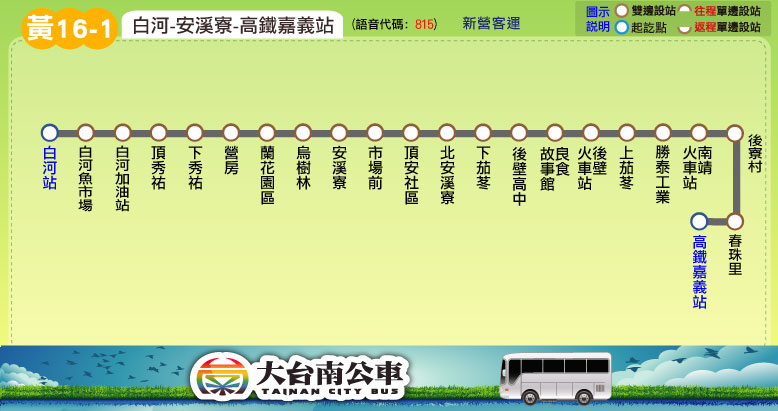
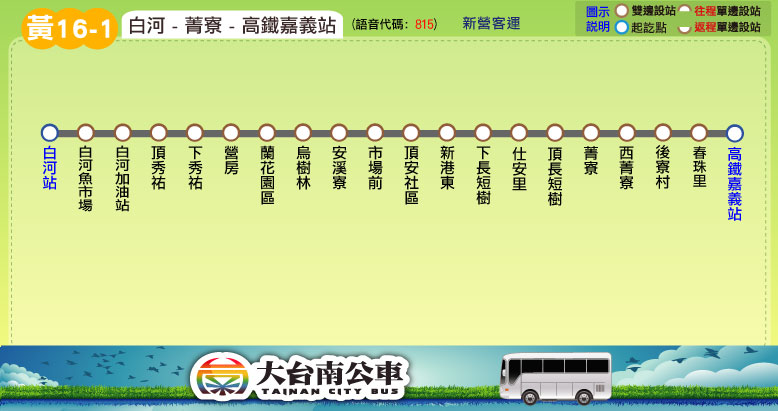
更新路線圖及時刻表：黃16-1(與俗女養成記接駁車整合)；移除路線：俗女養成記接駁車

Changed region(s): [[0.5553, 0.292, 0.9871, 0.7591], [0.1542, 0.0292, 0.4319, 0.0876]]

diff --git a/index.html b/index.html
@@ -17,7 +17,7 @@ html, body {
 }
 </style>
 <script type="text/javascript">
-route_arr = ["0左/0右","1","2","3","5","6","7","9","10","11","14","15","18","19","20","21","33 (關子嶺故宮南院線)","61 (西濱快線)","70 (中華環線)","77","77-1","77-2","88 (府城巡迴線)","99 (安平台江線)","166","綠幹線 (green)","綠1 (g1)","綠2 (g2)","綠3 (g3)","綠4 (g4)","綠5 (g5)","綠6 (g6)","綠7 (g7)","綠10 (g10)","綠11 (g11)","綠12 (g12)","綠13 (g13)","綠14 (g14)","綠15 (g15)","綠16 (g16)","綠17 (g17)","綠20 (g20)","綠20-1 (g20-1)","綠21 (g21)","綠22 (g22)","綠23 (g23)","綠24 (g24)","綠25 (g25)","綠26 (g26)","綠27 (g27)","藍幹線 (blue)","藍1 (b1)","藍2 (b2)","藍3 (b3)","藍10 (b10)","藍11 (b11)","藍12 (b12)","藍13 (b13)","藍20 (b20)","藍21 (b21)","藍22 (b22)","藍23 (b23)","藍24 (b24)","藍25 (b25)","紅幹線 (red)","紅1 (r1)","紅2 (r2)","紅3 (r3)","紅3-1 (r3-1)","紅4 (r4)","紅10 (r10)","紅11 (r11)","紅12 (r12)","紅13 (r13)","紅14 (r14)","橘幹線 (orange)","橘1 (o1)","橘2 (o2)","橘3 (o3)","橘4 (o4)","橘4-1 (o4-1)","橘5 (o5)","橘9 (o9)","橘10 (o10)","橘10-1 (o10-1)","橘11 (o11)","橘11-1 (o11-1)","橘12 (o12)","橘20 (o20)","棕幹線 (brown)","棕1 (br1)","棕2 (br2)","棕3 (br3)","棕3-1 (br3-1)","棕10 (br10)","棕11 (br11)","黃幹線 (yellow)","黃1 (y1)","黃2 (y2)","黃3 (y3)","黃4 (y4)","黃5 (y5)","黃6 (y6)","黃6-1 (y6-1)","黃7 (y7)","黃9 (y9)","黃10 (y10)","黃10-1 (y10-1)","黃11 (y11)","黃11-1 (y11-1)","黃11-2 (y11-2)","黃12 (y12)","黃12-1 (y12-1)","黃12-2 (y12-2)","黃13 (y13)","黃14 (y14)","黃14-1 (y14-1)","黃15 (y15)","黃16 (y16)","黃16-1 (y16-1)","黃20 (y20)","高鐵快捷H31(市府線)","高鐵快捷H62(奇美線)","239","8035","8041C","8042 (沙旗美月世界快線)","8046A","8046B (高南雙城快線)","8050","7207","7208","7210","7214","7229","7407","7408","7410","南科紅線(北環東線)","南科橘線(北環西線)","南科藍線(南環線)","南科綠線(高鐵線)","南科善化線","南科假日線","雙層巴士西環線","俗女養成記接駁車"];
+route_arr = ["0左/0右","1","2","3","5","6","7","9","10","11","14","15","18","19","20","21","33 (關子嶺故宮南院線)","61 (西濱快線)","70 (中華環線)","77","77-1","77-2","88 (府城巡迴線)","99 (安平台江線)","166","綠幹線 (green)","綠1 (g1)","綠2 (g2)","綠3 (g3)","綠4 (g4)","綠5 (g5)","綠6 (g6)","綠7 (g7)","綠10 (g10)","綠11 (g11)","綠12 (g12)","綠13 (g13)","綠14 (g14)","綠15 (g15)","綠16 (g16)","綠17 (g17)","綠20 (g20)","綠20-1 (g20-1)","綠21 (g21)","綠22 (g22)","綠23 (g23)","綠24 (g24)","綠25 (g25)","綠26 (g26)","綠27 (g27)","藍幹線 (blue)","藍1 (b1)","藍2 (b2)","藍3 (b3)","藍10 (b10)","藍11 (b11)","藍12 (b12)","藍13 (b13)","藍20 (b20)","藍21 (b21)","藍22 (b22)","藍23 (b23)","藍24 (b24)","藍25 (b25)","紅幹線 (red)","紅1 (r1)","紅2 (r2)","紅3 (r3)","紅3-1 (r3-1)","紅4 (r4)","紅10 (r10)","紅11 (r11)","紅12 (r12)","紅13 (r13)","紅14 (r14)","橘幹線 (orange)","橘1 (o1)","橘2 (o2)","橘3 (o3)","橘4 (o4)","橘4-1 (o4-1)","橘5 (o5)","橘9 (o9)","橘10 (o10)","橘10-1 (o10-1)","橘11 (o11)","橘11-1 (o11-1)","橘12 (o12)","橘20 (o20)","棕幹線 (brown)","棕1 (br1)","棕2 (br2)","棕3 (br3)","棕3-1 (br3-1)","棕10 (br10)","棕11 (br11)","黃幹線 (yellow)","黃1 (y1)","黃2 (y2)","黃3 (y3)","黃4 (y4)","黃5 (y5)","黃6 (y6)","黃6-1 (y6-1)","黃7 (y7)","黃9 (y9)","黃10 (y10)","黃10-1 (y10-1)","黃11 (y11)","黃11-1 (y11-1)","黃11-2 (y11-2)","黃12 (y12)","黃12-1 (y12-1)","黃12-2 (y12-2)","黃13 (y13)","黃14 (y14)","黃14-1 (y14-1)","黃15 (y15)","黃16 (y16)","黃16-1 (y16-1)","黃20 (y20)","高鐵快捷H31(市府線)","高鐵快捷H62(奇美線)","239","8035","8041C","8042 (沙旗美月世界快線)","8046A","8046B (高南雙城快線)","8050","7207","7208","7210","7214","7229","7407","7408","7410","南科紅線(北環東線)","南科橘線(北環西線)","南科藍線(南環線)","南科綠線(高鐵線)","南科善化線","南科假日線","雙層巴士西環線"];
 function search_route(route_str){
 	isFinished = false;
 	route_str = route_str.split(' ')[0];
@@ -56,7 +56,6 @@ function search_route(route_str){
 			else if(route_str=='南科善化線') route = 'STSP/STSP_Shanhua';
 			else if(route_str=='南科假日線') route = 'STSP/STSP_holiday';
 			else if(route_str=='雙層巴士西環線') route = 'sightseeing/western';
-			else if(route_str=='俗女養成記接駁車') route = 'tourist/the_making_of_an_ordinary_woman'
 			else if(!isNaN(route_str) && route_str.length<=3 || route_str=='77-1' || route_str=='77-2') route = 'urban/' + route_str; // urban bus
 			else route = 'highway/' + route_str; // highway bus
 			isFinished = true;

diff --git a/route/fare_and_time/yellow_16_1.js b/route/fare_and_time/yellow_16_1.js
@@ -1,16 +1,17 @@
-yellow_16_1_interval_name = ["白河站","下秀祐","營房","烏樹林","安溪寮","後壁火車站","上茄苳","南靖火車站","後寮村","高鐵嘉義站"];
+yellow_16_1_interval_name = ["白河站","下秀祐","營房","烏樹林","安溪寮","新港東","頂長短樹","菁寮","後寮村","高鐵嘉義站"];
 yellow_16_1_interval_stop = [
 ["白河站","白河魚市場","白河加油站"], // 白河
 ["頂秀祐","下秀祐"], // 下秀祐
 ["營房"], // 營房
 ["蘭花園區","烏樹林"], // 烏樹林
-["安溪寮","市場前","頂安社區","北安溪寮","下茄苳","後壁高中","良食故事館"], // 安溪寮
-["後壁火車站"], // 後壁火車站
-["上茄苳","勝泰工業"], // 上茄苳
-["南靖火車站"], // 南靖火車站
+["安溪寮","市場前","頂安社區"], // 安溪寮
+["新港東"], // 新港東
+["下長短樹","仕安里","頂長短樹"], // 頂長短樹
+["菁寮","西菁寮"], // 菁寮
 ["後寮村","春珠里"], // 後寮村
 ["高鐵嘉義站"] // 高鐵嘉義站
 ];
+
 yellow_16_1_fare = [
 [26],
 [26,26],
@@ -26,17 +27,16 @@ yellow_16_1_fare = [
 // format = [time at the start stop] or
 // [time, other] or
 // [time, start_stop, end_stop, other]
-yellow_16_1_main_stop_name = ["白河站","烏樹林","北安<br />溪寮","後壁<br />高中","後壁<br />火車站","上茄苳","南靖<br />火車站","後寮村","高鐵<br />嘉義站"];
-yellow_16_1_main_stop_time_consume = [0, 7, 13, 15, 16, 19, 22, 29, 43];
-yellow_16_1_important_stop = [0, 4, 8]; // 白河站, 後壁火車站, 高鐵嘉義站
+yellow_16_1_main_stop_name = ["白河站","烏樹林","新港東","頂長短樹","菁寮","後寮村","高鐵<br />嘉義站"];
+yellow_16_1_main_stop_time_consume = [0, 7, 15, 20, 22, 32, 45];
+yellow_16_1_important_stop = [0, 4, 6]; // 白河站, 菁寮, 高鐵嘉義站
 var Baihe = 0;
-var Wushulin = 1;
-var Beianxiliao = 2;
-var TRA_Nanjing = 6;
-var Houliao_Vil = 7;
-yellow_16_1_time_go = [["08:00"],["11:00"],["15:00"]];
+var Houliao_Vil = 5;
+yellow_16_1_time_go = [["08:00"],["10:00",['H']],["11:00"],["13:00",['H']],["15:00"]];
 yellow_16_1_time_return = [
-["09:20",[[Houliao_Vil,-10,TRA_Nanjing,-1,Beianxiliao,1,Wushulin,2,Baihe,5]]],
-["12:20",[[Houliao_Vil,-10,TRA_Nanjing,-1,Beianxiliao,1,Wushulin,2,Baihe,5]]],
-["16:20",[[Houliao_Vil,-10,TRA_Nanjing,-1,Beianxiliao,1,Wushulin,2,Baihe,5]]]
+["09:20",[[Houliao_Vil,-8,Baihe,3]]],
+["11:20",['H',[Houliao_Vil,-8,Baihe,3]]],
+["12:20",[[Houliao_Vil,-8,Baihe,3]]],
+["14:20",['H',[Houliao_Vil,-8,Baihe,3]]],
+["16:20",[[Houliao_Vil,-8,Baihe,3]]]
 ];

diff --git a/tools/transfer_information.js b/tools/transfer_information.js
@@ -129,7 +129,6 @@ link_tour_bus_33 = '<a href="../tourist/33.html" target="_blank">33 <div class="
 link_tour_bus_61 = '<a href="../tourist/61.html" target="_blank">61 <div class="sub_title">西濱快線</div></a>';
 link_tour_bus_88 = '<a href="../tourist/88.html" target="_blank">88 <div class="sub_title">府城巡迴線</div></a>';
 link_tour_bus_99 = '<a href="../tourist/99.html" target="_blank">99 <div class="sub_title">安平台江線</div></a>';
-link_tour_bus_the_making_of_an_ordinary_woman_route = '<a href="../tourist/the_making_of_an_ordinary_woman.html" target="_blank">俗女養成記接駁車</a>';
 
 link_hsr_shuttle_H31 = '<a href="../hsr_shuttle/H31.html" target="_blank">H31 <div class="sub_title"><font color="#FFFFFF">市府線</font></div></a>';
 link_hsr_shuttle_H62 = '<a href="../hsr_shuttle/H62.html" target="_blank">H62 <div class="sub_title"><font color="#FFFFFF">奇美線</font></div></a>';
@@ -406,7 +405,7 @@ transfer_hsr_chiayi_station = '<tr><th rowspan="5">高鐵嘉義站</th>\
 <tr><td style="text-align: center"><img src="' + LOGO_DIR_PATH + 'hsr_shuttle_logo.png"></td>\
 	<td id="hsr_shuttle">' + link_hsr_shuttle_166 + '</td></tr>\
 <tr><td style="text-align: center"><img src="' + LOGO_DIR_PATH + 'taiwantrip_logo.png"></td>\
-	<td id="tour_bus">' + link_tour_bus_33 + '、' + link_tour_bus_the_making_of_an_ordinary_woman_route + '</td></tr>';
+	<td id="tour_bus">' + link_tour_bus_33 + '</td></tr>';
 
 transfer_madou = '<tr><th rowspan="2">麻豆轉運站</th>\
 <td style="text-align: center"><img src="' + LOGO_DIR_PATH + 'orange_transfer_logo.png"></td>\
@@ -518,7 +517,7 @@ transfer_houbi_railway_station = '<tr><th rowspan="4">後壁火車站</th>\
 <td style="text-align: center"><img src="' + LOGO_DIR_PATH + 'railway.png"></td>\
 	<td><font color="#00AAFF">台鐵後壁站</font></td></tr>\
 <tr><td style="text-align: center"><img src="' + LOGO_DIR_PATH + 'yellow_transfer_logo.png"></td>\
-	<td id="yellow">' + link_yellow_6 + '、' + link_yellow_6_1 + '、' + link_yellow_9 + '、' + link_yellow_10 + '、' + link_yellow_16_1 + '</td></tr>\
+	<td id="yellow">' + link_yellow_6 + '、' + link_yellow_6_1 + '、' + link_yellow_9 + '、' + link_yellow_10 + '</td></tr>\
 <tr><td style="text-align: center"><img src="' + LOGO_DIR_PATH + 'taiwantrip_logo.png"></td>\
 	<td id="tour_bus">' + link_tour_bus_33 + '</td></tr>\
 <tr><td style="text-align: center"><img src="' + LOGO_DIR_PATH + 'highway_bus_transfer_logo.png"></td>\

diff --git a/tools/msg.js b/tools/msg.js
@@ -1,10 +1,10 @@
 MeteredMSG = '<h3><font color="red">刷電子票證(悠遊卡、一卡通、iCash 2.0)8公里免費</font></h3>';
-CitybusMSG = '<span style="color: red;font-size:20px;font-weight:bold;">台南市民搭乘市區公車(0~99路，33及61路除外)，刷市民卡享半價優惠(9元)！</span><br /><span style="color: red;font-size:18px;font-weight:bold;">（本項優惠至108/12/31止）</span><p></p>';
+CitybusMSG = '<span style="color: red;font-size:20px;font-weight:bold;">台南市民搭乘市區公車(0~99路，33及61路除外)，刷市民卡享平日半價、假日免費優惠！</span><br /><span style="color: red;font-size:18px;font-weight:bold;">（本項優惠至109/12/31止）</span><p></p>';
 PromotionMSG = '<h2>使用電子票證時，上下車皆須刷卡</h2><br /><span style="color:#7F3310;font-size:20px;font-weight:bold;">搭乘台鐵及大台南公車，並且上、下車都刷卡，<br />4小時內轉乘市區公車1段票免費、轉乘幹支線公車8公里免費再折扣9元(需使用電子票證，公車轉台鐵無優惠)</span><p></p><h3>65歲以上長者刷台南市民卡敬老卡及身障人士刷台南市民卡愛心卡，可享大台南公車全線免費搭乘</h3>';
 TimeScheduleMSG = '<p><h2>除了起站為發車時間，其餘站點皆為預估時間，敬請提早候車。</h2></p>';
 W_message = '<font color="#0000FF">W</font>表示僅平日行駛';
 L_message = '<font color="#FF0000">L</font>表示低地板公車';
-H_message = '<font color="red">H</font>表示僅假日行駛';
+H_message = '<span style="color:red;">H</span>表示僅假日行駛：指星期六、日行駛，且包含國定假日';
 S_message = '<font color="green">S</font>表示僅上課日行駛，例假日、寒暑假停駛';
 copyrightMSG = '<p>Copyright (c) 2014-'+(new Date()).getFullYear()+' Tainan Bus for FUN all rights reserved. | <a href="../intro.html" rel="nofollow">about us</a></p>';
 

diff --git a/tools/route_infor.js b/tools/route_infor.js
@@ -97,7 +97,7 @@ yellow_14_route = '白河 ─ 三層崎';
 yellow_14_1_route = '白河 ─ 甘宅 ─ 內角';
 yellow_15_route = '白河 ─ 詔安厝';
 yellow_16_route = '白河 ─ 東山 ─ 六甲 ─ 隆田火車站';
-yellow_16_1_route = '白河 ─ 後壁火車站 ─ 高鐵嘉義站';
+yellow_16_1_route = '白河 ─ 菁寮 ─ 高鐵嘉義站';
 yellow_20_route = '麻豆 ─ 下營 ─ 林鳳營火車站';
 
 urban_0_route = '臺南火車站 ─ 體育公園 ─ 臺南火車站';
@@ -127,7 +127,6 @@ tourist_33_route = '高鐵嘉義站 ─ 故宮南院 ─ 關子嶺　<div class=
 tourist_61_route = '新營 ─ 布袋商港 ─ 臺灣鹽博物館　<div class="sub_title">西濱快線</div>';
 tourist_88_route = '臺南火車站 ─ 臺南火車站　<div class="sub_title">府城巡迴線</div>';
 tourist_99_route = '臺南轉運站 ─ 觀夕平台 ─ 七股鹽山　<div class="sub_title">安平台江線</div>';
-tourist_the_making_of_an_ordinary_woman_route = '高鐵嘉義站 ─ 菁寮';
 
 hsr_shuttle_H31_route = '安億橋 ─ 臺南市政府 ─ 高鐵臺南站　<div class="sub_title">高鐵快捷市府線</div>';
 hsr_shuttle_H62_route = '桂田酒店 ─ 奇美醫院 ─ 高鐵臺南站　<div class="sub_title">高鐵快捷奇美線</div>';

diff --git a/yellow/yellow_16-1.html b/yellow/yellow_16-1.html
@@ -7,7 +7,7 @@
 	route_name_en = 'Yellow 16-1';
 	route_file_name = 'yellow_16_1';
 	route_type = 'yellow';
-	route_interval = ['白河','後壁','高鐵嘉義站'];
+	route_interval = ['白河','菁寮','高鐵嘉義站'];
 </script>
 <script src="../tools/web_model.js"></script> 
 <script type="text/javascript">
@@ -20,8 +20,8 @@
 	block_route_map(null);
 	block_route_info(route_interval,'新營客運','','里程計費','http://www.2384.com.tw/ebus/jsp/ajaxBus.jsp?pathId=1815&locale=zh_TW');
 	block_fare(0, null);
-	block_time_schedule('白河站','高鐵嘉義站','');
-	block_transfer(transfer_baihe + transfer_houbi_railway_station + transfer_hsr_chiayi_station);
+	block_time_schedule('白河站','高鐵嘉義站',H_message);
+	block_transfer(transfer_baihe + transfer_hsr_chiayi_station);
 	block_copyright();
 </script>
 </body>

diff --git a/overview.html b/overview.html
@@ -371,7 +371,6 @@ function get_transfer_info(bus_stop){
 		+ get_button_string('yellow', 'yellow_10', '黃10')
 		+ get_button_string('yellow', 'yellow_16-1', '黃16-1')
 		+ get_button_string('tourist', '33', '33')
-		+ get_button_string('tourist', 'the_making_of_an_ordinary_woman', '俗女<br />養成<br />記接<br />駁車')
 		+ get_button_string('highway', '7229', '7229');
 		break;
 	case '東山':
@@ -467,7 +466,6 @@ function get_transfer_info(bus_stop){
 		+ get_button_string('yellow', 'yellow_6-1', '黃6-1')
 		+ get_button_string('yellow', 'yellow_9', '黃9')
 		+ get_button_string('yellow', 'yellow_10', '黃10')
-		+ get_button_string('yellow', 'yellow_16-1', '黃16-1')
 		+ get_button_string('tourist', '33', '33')
 		+ get_button_string('highway', '7229', '7229');
 		break;

diff --git a/tourist/index.html b/tourist/index.html
@@ -29,10 +29,6 @@
 		<tr>\
 			<td><a href="99.html" class="touristButton">99</a></td>\
 			<td>'+ tourist_99_route +'</td>\
-		</tr>\
-		<tr>\
-			<td><a href="the_making_of_an_ordinary_woman.html" class="touristButton">俗女<br />養成記<br />接駁車</a></td>\
-			<td>'+ tourist_the_making_of_an_ordinary_woman_route +'</td>\
 		</tr>');
 	</script>
 </table>

diff --git a/TainanBusMap/show_map.php b/TainanBusMap/show_map.php
@@ -48,8 +48,7 @@
 			else $ch_name = '高鐵快捷公車'.strtoupper($str_sec[2]);
 			break;
 		case 'tour':
-			if($route_name=='tour_bus_the_making_of_an_ordinary_woman') $ch_name = '俗女養成記接駁車';
-			else $ch_name = '台灣好行'.$str_sec[2].'路';
+			$ch_name = '台灣好行'.$str_sec[2].'路';
 			break;
 		case 'STSP':
 			if($str_sec[1]=='red') $ch_route_name = '紅線(北環東線)';
